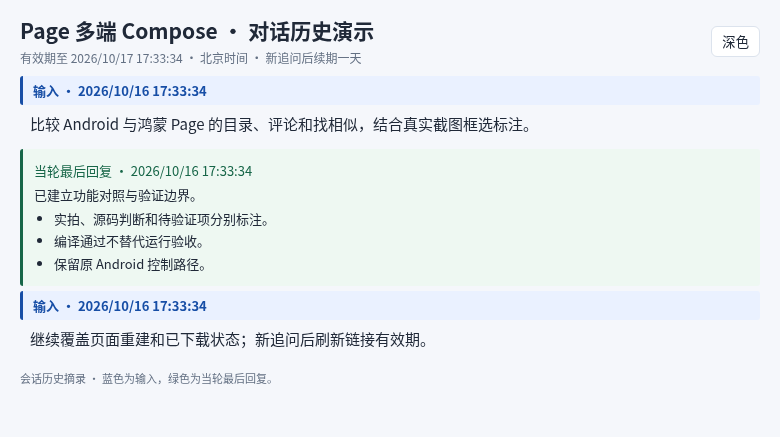
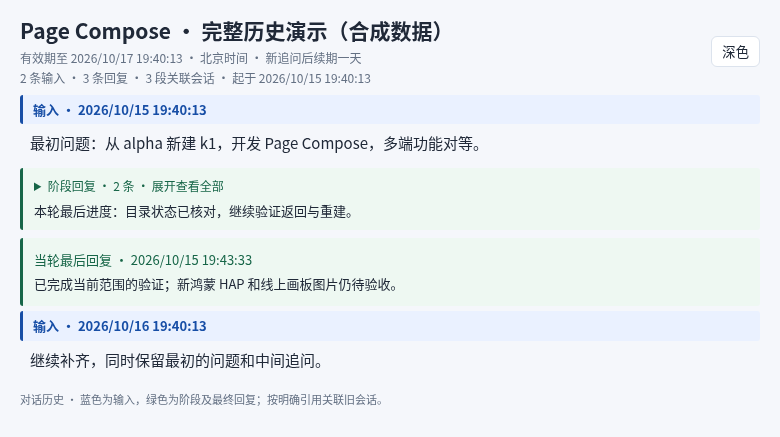
fix(history): 按追问折叠阶段回复并只预览最后一条
Dev-Version: v0.0.64

diff --git a/src/services/conversation-history-page.ts b/src/services/conversation-history-page.ts
@@ -3,6 +3,7 @@ import MarkdownIt from 'markdown-it';
 import { randomBytes } from 'node:crypto';
 import type { ConversationHistory, HistoryMessage } from './conversation-history-store.js';
 import { scrubSecrets } from './insight/scrub.js';
+import { renderHistoryTurns } from './conversation-history-turns.js';
 
 const css = `
 :root{color-scheme:light;--bg:#f5f7fb;--fg:#202938;--muted:#637083;--line:#dce3ed;--panel:#fff;--blue:#174ea6;--blue-bg:#eaf1ff;--green:#176648;--green-bg:#eef8f2;--link:#205fbd}
@@ -12,6 +13,7 @@ main{max-width:1000px;margin:0 auto;padding:16px 20px 28px}header{display:flex;a
 button{border:1px solid var(--line);border-radius:6px;background:var(--panel);color:var(--fg);padding:5px 10px;cursor:pointer}article{overflow-wrap:anywhere}article>h1{display:none}article>p{margin:5px 0}article>h2{font-size:17px;line-height:1.4;margin:16px 0 6px;border-top:1px solid var(--line);padding-top:12px}
 article>h3{font-size:13px;line-height:1.5;margin:5px 0;padding:5px 10px;color:var(--blue);background:var(--blue-bg);border-left:3px solid var(--blue);border-radius:3px}article>h3+p{padding:2px 10px 5px}
 blockquote{margin:8px 0 0;padding:8px 11px;font-size:13px;line-height:1.55;color:var(--fg);background:var(--green-bg);border-left:3px solid var(--green);border-radius:3px}blockquote>p:first-child{color:var(--green)}blockquote p{margin:4px 0}blockquote ul,blockquote ol{padding-left:20px;margin:4px 0}li{margin:2px 0}li>p{margin:0}
+details.history-progress{margin:8px 0;padding:8px 11px;background:var(--green-bg);border-left:3px solid var(--green);border-radius:3px;font-size:13px}details.history-progress>summary{cursor:pointer;color:var(--green)}.progress-label{font-size:12px}.progress-preview{display:block;white-space:pre-wrap;overflow-wrap:anywhere;color:var(--fg);margin-top:4px}.history-progress[open] .progress-preview{display:none}.progress-expanded blockquote{border-left:0;padding-left:0}
 a{color:var(--link);text-decoration:none}a:hover{text-decoration:underline}code{font-size:.92em;background:var(--panel);padding:1px 3px;border-radius:3px}pre{overflow:auto;padding:8px;background:var(--panel)}pre code{padding:0}hr{display:none}img{max-width:100%}footer{margin-top:14px;font-size:11px;color:var(--muted)}
 @media(max-width:640px){main{padding:12px 12px 24px}h1{font-size:19px}body{font-size:14px}article>h2{font-size:16px}blockquote{font-size:13px}}
 `;
@@ -33,9 +35,9 @@ export function renderConversationHistory(history: ConversationHistory, messages
     return renderer.renderToken(tokens, index, options);
   };
   const formatTime = (at: number) => new Date(at).toLocaleString('zh-CN', { timeZone: 'Asia/Shanghai', hour12: false });
-  const body = messages.map(message => message.kind === 'user'
+  const body = renderHistoryTurns(messages, message => message.kind === 'user'
     ? `<h3>输入 · ${formatTime(message.at)}</h3>${md.render(message.content)}`
-    : `<blockquote><p>${message.kind === 'assistant_progress' ? '阶段回复' : '当轮最后回复'} · ${formatTime(message.at)}</p>${md.render(message.content)}</blockquote>`).join('\n');
+    : `<blockquote><p>${message.kind === 'assistant_progress' ? '阶段回复' : '当轮最后回复'} · ${formatTime(message.at)}</p>${md.render(message.content)}</blockquote>`, escapeHistoryHtml);
   const coverageText = `${messages.filter(item => item.kind === 'user').length} 条输入 · ${messages.filter(item => item.kind !== 'user').length} 条回复${coverage ? ` · ${coverage.sourceCount} 段关联会话` : ''}${messages.length ? ` · 起于 ${formatTime(messages[0].at)}` : ''}`;
   const missing = coverage?.unavailableSources ? `<p>有 ${coverage.unavailableSources} 段会话的原始记录暂不可读，当前展示已恢复内容。</p>` : '';
   const title = escapeHistoryHtml(scrubSecrets(history.title || '对话历史'));

diff --git a/test/conversation-history-turns.test.ts b/test/conversation-history-turns.test.ts
@@ -1,0 +1,32 @@
+/** 验证按追问折叠进度，不跨轮吞掉用户输入或最终回复。 */
+import { expect, it } from 'vitest';
+import { renderHistoryTurns } from '../src/services/conversation-history-turns.js';
+import { escapeHistoryHtml } from '../src/services/conversation-history-page.js';
+import type { HistoryMessage } from '../src/services/conversation-history-store.js';
+
+it('每次追问之间只预览最后进度，前面进度保留在默认折叠区，最终回复可见', () => {
+  const values: [HistoryMessage['kind'], string][] = [['user', '首问'], ['assistant_progress', '早期进度'],
+    ['assistant_progress', '第一轮最后进度'], ['assistant_final', '第一轮结果'], ['user', '追问'],
+    ['assistant_progress', '第二轮进度'], ['assistant_progress', '第二轮最后进度']];
+  const messages = values.map(([kind, content], at) => ({ id: String(at), kind, content, at }));
+  const html = renderHistoryTurns(messages, message => `<p>${message.content}</p>`, escapeHistoryHtml);
+  const summaries = [...html.matchAll(/<summary>([\s\S]*?)<\/summary>/g)].map(match => match[1]);
+  expect(summaries).toHaveLength(2);
+  expect(summaries[0]).toContain('第一轮最后进度');
+  expect(summaries[0]).not.toContain('早期进度');
+  expect(summaries[1]).toContain('第二轮最后进度');
+  expect(html).not.toMatch(/<details[^>]*\bopen(?:\s|=|>)/);
+  expect(html.replace(/<details[\s\S]*?<\/details>/g, '')).toContain('<p>第一轮结果</p><p>追问</p>'.replace('</p><p>', '</p>\n<p>'));
+  expect(html).toContain('早期进度');
+});
+
+it('连续追问和无进度轮次不生成空折叠，摘要转义正文 HTML', () => {
+  const messages: HistoryMessage[] = [
+    { id: 'u1', kind: 'user', content: '问题1', at: 1 }, { id: 'u2', kind: 'user', content: '问题2', at: 2 },
+    { id: 'p1', kind: 'assistant_progress', content: '<img onerror=alert(1)>', at: 3 },
+  ];
+  const html = renderHistoryTurns(messages, message => escapeHistoryHtml(message.content), escapeHistoryHtml);
+  expect((html.match(/<details/g) ?? []).length).toBe(1);
+  expect(html).not.toContain('<img');
+  expect(html).toContain('&lt;img');
+});

diff --git a/src/services/conversation-history-turns.ts b/src/services/conversation-history-turns.ts
@@ -1,0 +1,28 @@
+/** 以真实用户追问分段，默认仅露出本段最后一条进度，完整正文可展开。 */
+import type { HistoryMessage } from './conversation-history-store.js';
+
+export function renderHistoryTurns(
+  messages: HistoryMessage[],
+  render: (message: HistoryMessage) => string,
+  escape: (text: string) => string,
+): string {
+  const output: string[] = [];
+  let pending: HistoryMessage[] = [];
+  const flush = () => {
+    const progress = pending.filter(message => message.kind === 'assistant_progress');
+    const last = progress.at(-1);
+    for (const message of pending) {
+      if (message.kind !== 'assistant_progress') output.push(render(message));
+      else if (message === last) {
+        output.push(`<details class="history-progress"><summary><span class="progress-label">阶段回复 · ${progress.length} 条 · 展开查看全部</span><span class="progress-preview">${escape(last.content)}</span></summary><div class="progress-expanded">${progress.map(render).join('\n')}</div></details>`);
+      }
+    }
+    pending = [];
+  };
+  for (const message of messages) {
+    if (message.kind === 'user') { flush(); output.push(render(message)); }
+    else pending.push(message);
+  }
+  flush();
+  return output.join('\n');
+}

diff --git a/docs-site/docs/zh/cards.md b/docs-site/docs/zh/cards.md
@@ -12,7 +12,7 @@
 
 “打开 Web 终端”旁的 **🔗 对话历史** 可直接打开会话摘录页面，沿用蓝色输入、绿色阶段及最终回复和深浅色切换。链接默认有效 24 小时；每次新输入后，同一链接的有效期刷新为一天。浏览、刷新卡片、进度消息和最终回复不会续期，过期访问返回 410。
 
-历史保留用户正文、阶段回复和最终回复，排除工具输出、推理和启动规则。Codex 会沿同一机器人、群、用户和明确话题引用恢复重建前的关联会话，包含最初问题；同群无关会话不会自动合并。页面显示输入、回复、关联会话数量及起始时间；原始记录缺失时明确提示不全。Claude 按可识别的最终回复补读，其它执行器从接入后的可见消息累积。链接只读，不能操作终端。已启用私密终端保护的会话不提供此公开入口，已有历史链接也会被拒绝。
+每次追问之间的阶段回复默认折叠，仅预览最后一条；点击可展开全部，用户输入和最终回复保持可见。历史保留用户正文、阶段回复和最终回复，排除工具输出、推理和启动规则。Codex 会沿同一机器人、群、用户和明确话题引用恢复重建前的关联会话，包含最初问题；同群无关会话不会自动合并。页面显示输入、回复、关联会话数量及起始时间；原始记录缺失时明确提示不全。Claude 按可识别的最终回复补读，其它执行器从接入后的可见消息累积。链接只读，不能操作终端。已启用私密终端保护的会话不提供此公开入口，已有历史链接也会被拒绝。
 
 ![对话历史页面，使用演示数据](/images/conversation-history-demo.png)
 
